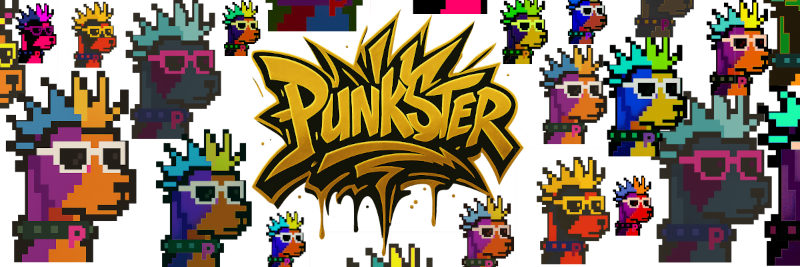
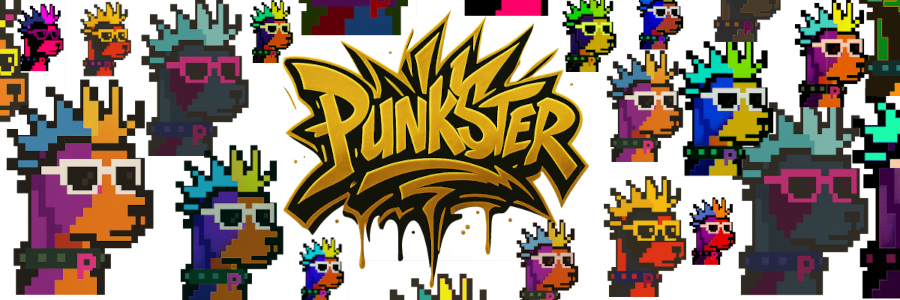
update final

diff --git a/styles.css b/styles.css
@@ -8,7 +8,7 @@
 body {
   font-family: 'Press Start 2P', cursive;
   background-color: #1b1b1b;
-  color: #f1f1f1;
+  color: #f5f5f5;
   line-height: 1.6;
   overflow-x: hidden;
 }
@@ -24,7 +24,7 @@ body {
 /* Glitch Text */
 .glitch-text {
   font-size: 2.5rem;
-  color: #fff;
+  color: #fff222;
   text-align: center;
   position: relative;
   animation: glitch 1.5s infinite;
@@ -61,7 +61,7 @@ header p {
   text-align: center;
   margin-top: 0.5rem;
   font-size: 1rem;
-  color: #ccc;
+  color: #eee;
 }
 
 .info, .about, .traits, .mint, .roadmap, .community {
@@ -69,12 +69,12 @@ header p {
   background: #2c2c2c;
   padding: 2.5rem;
   border-radius: 8px;
-  box-shadow: 0 0 10px #111;
+  box-shadow: 0 0 10px #000;
 }
 
 h2 {
   font-size: 1.2rem;
-  color: #ff00c8;
+  color: #ff44c8;
   margin-bottom: 1rem;
 }
 
@@ -158,7 +158,7 @@ code {
 }
 
 .mint-btn {
-  background: #ff00c8;
+  background: #fe55c8;
   color: white;
   padding: 0.8rem 1.5rem;
   border: none;
@@ -207,4 +207,3 @@ body::before {
   z-index: 0;
   pointer-events: none;
 }
-

diff --git a/index.html b/index.html
@@ -50,7 +50,7 @@
     </section>
 
     <section class="preview">
-      <img src="./images/social.png" alt="PunkSter Preview" />
+      <img src="./images/preview.png" alt="PunkSter Preview" />
     </section>
 
     <section class="about">
